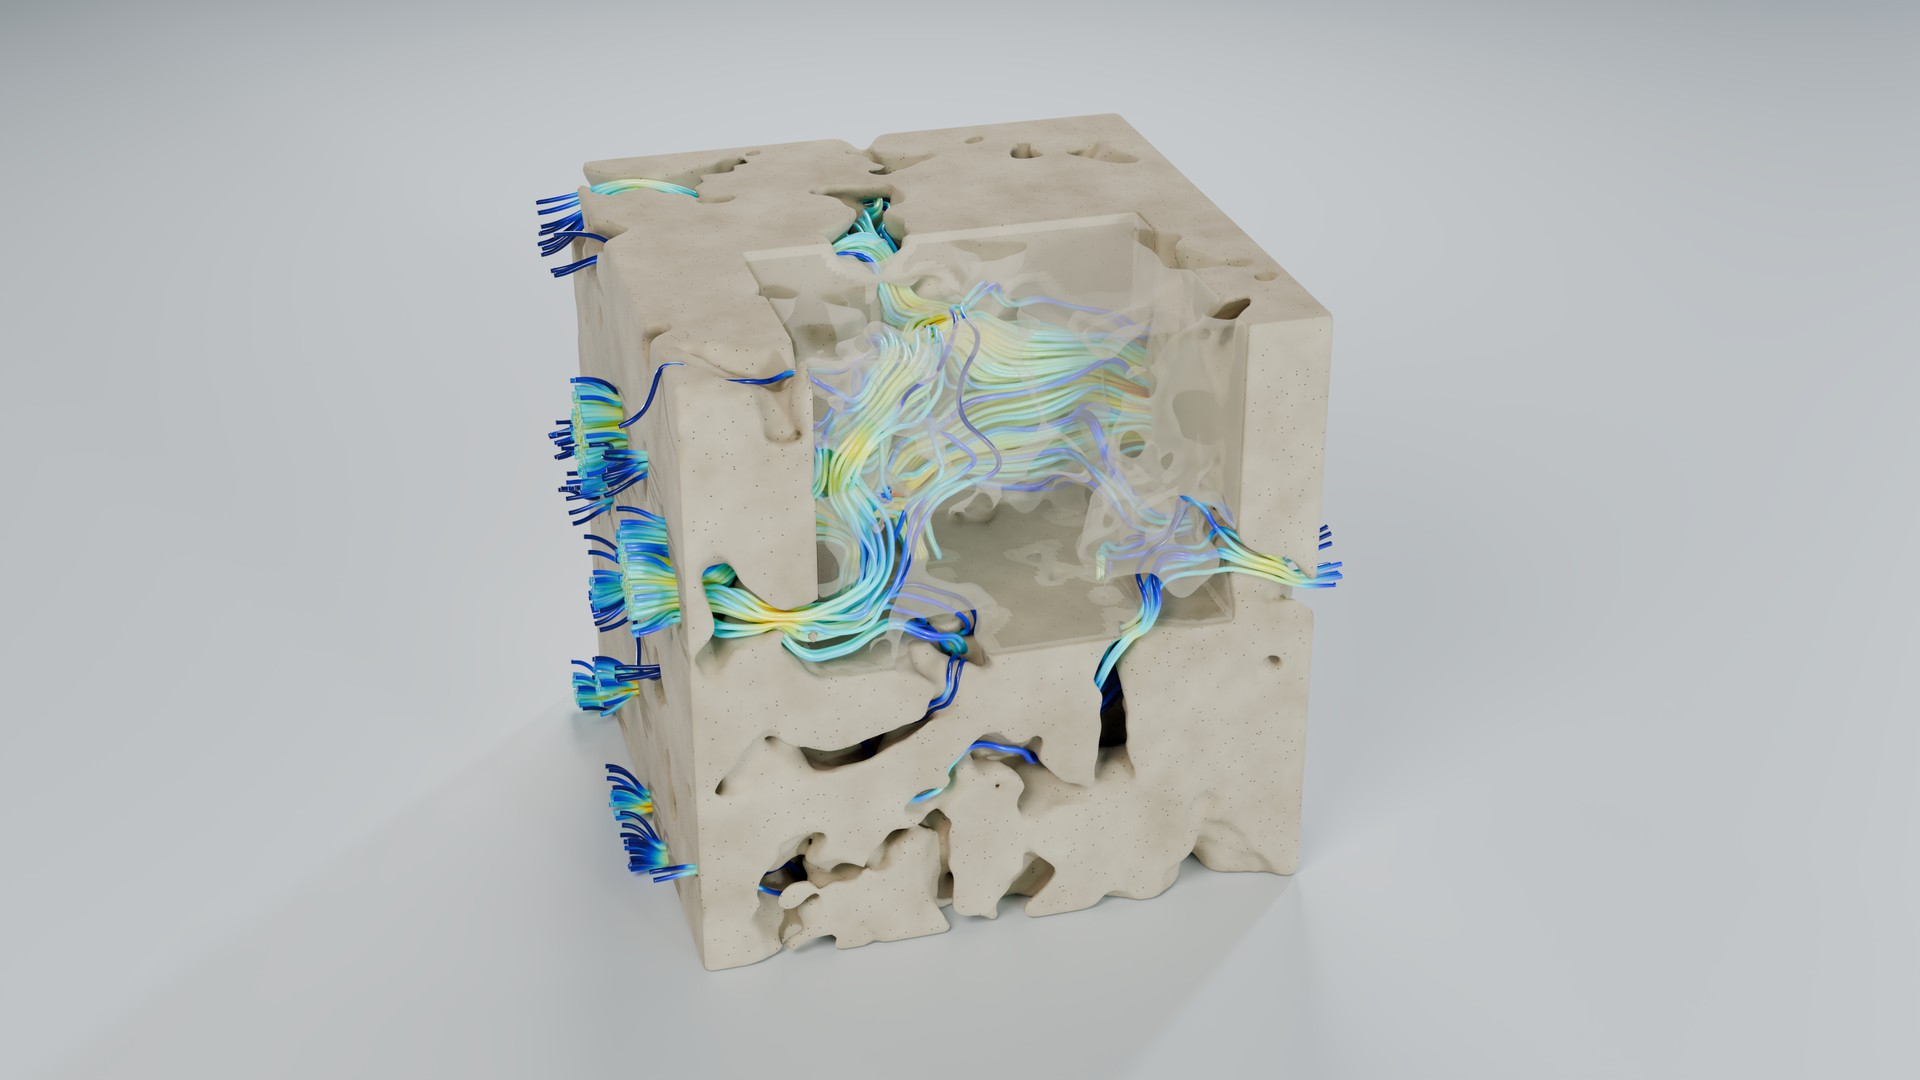
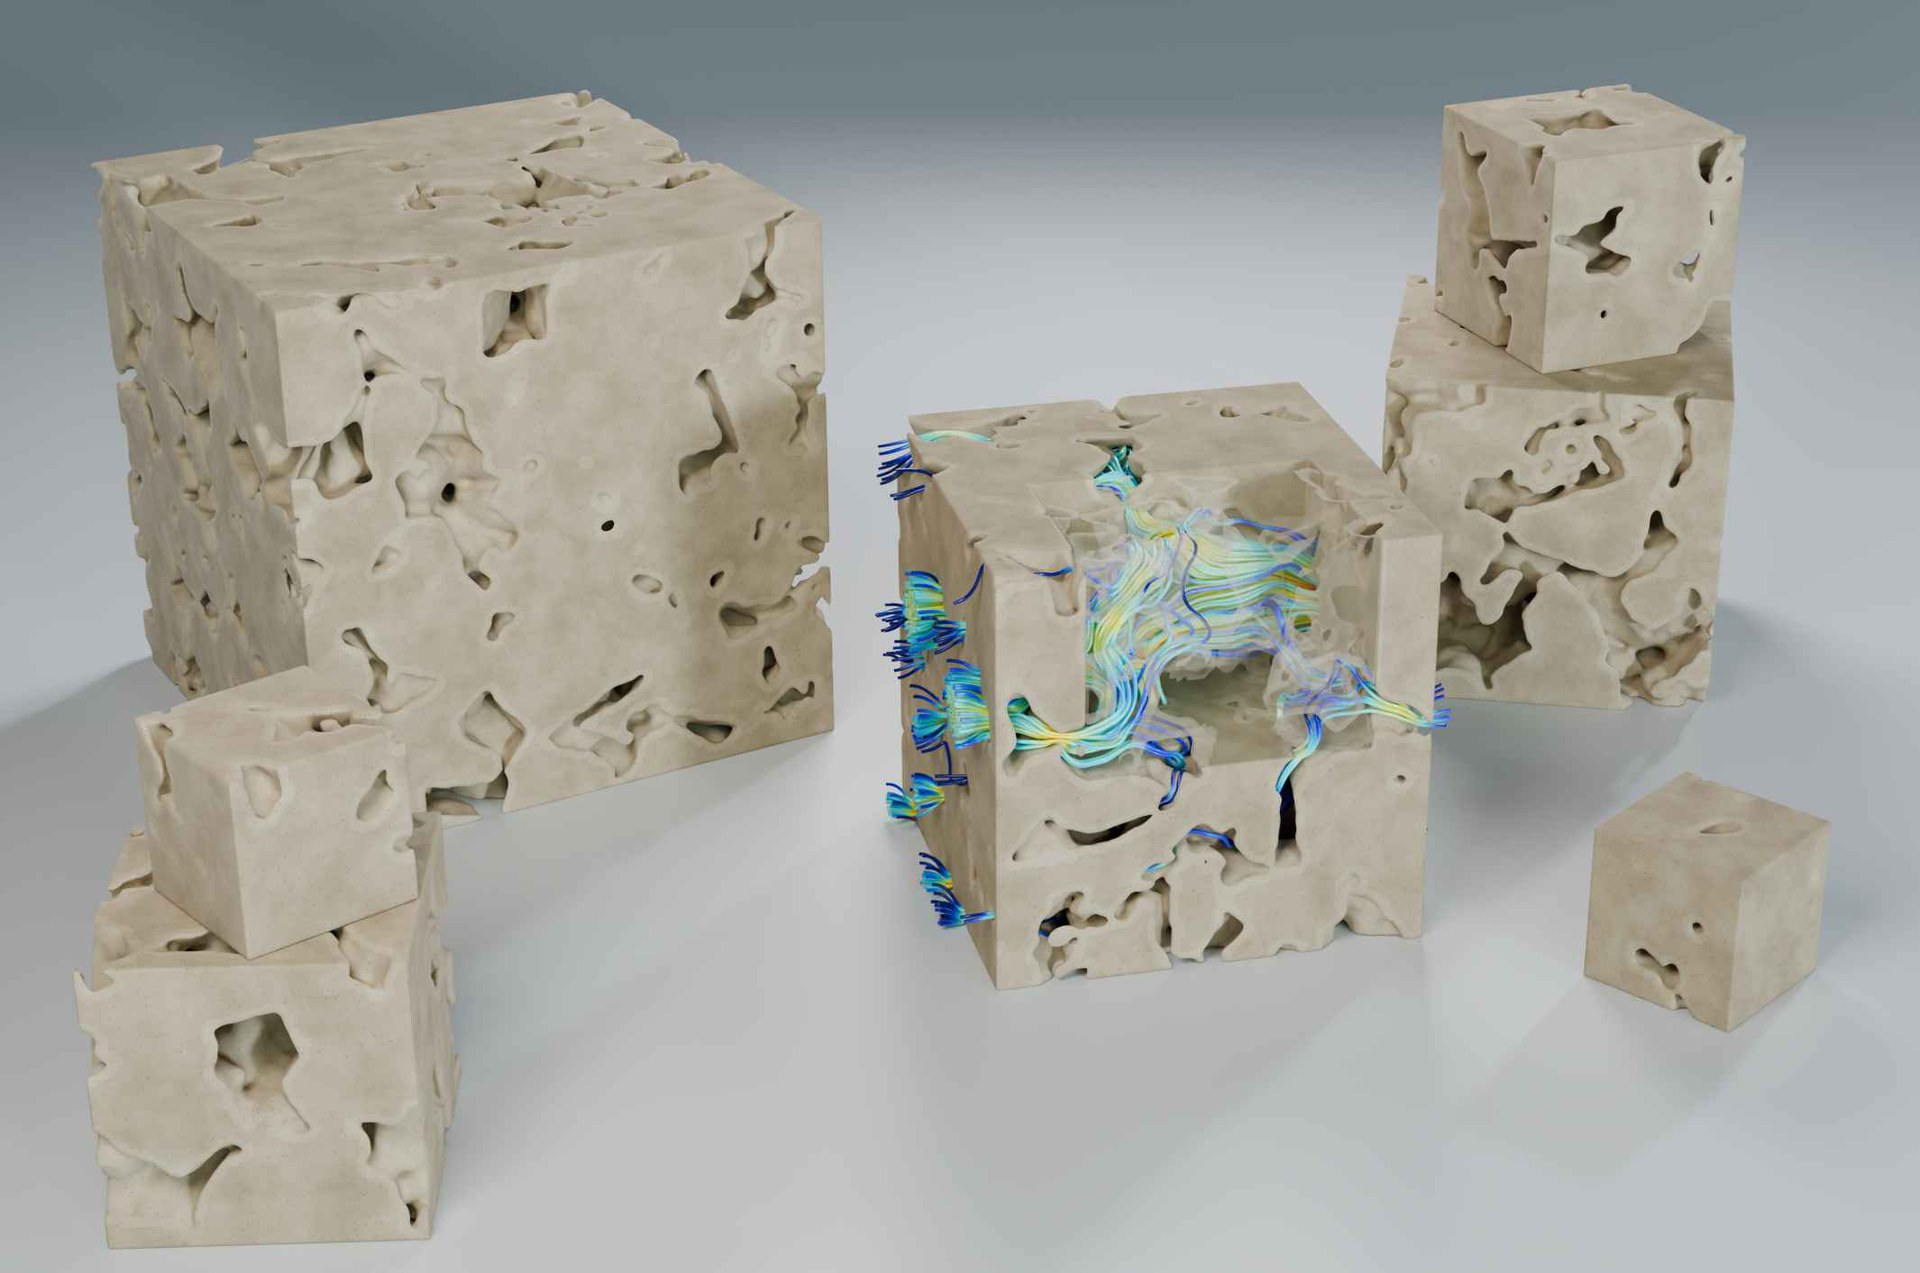
3ª rodada de revisão: textos, linha de reatores compactos, Escola Piloto e figuras
Aplica o TO_DO do Prof. Gabriel G. S. Ferreira de 08/11/2026 (CHANGELOG 0.3.1):

- textos novos na página inicial, em Sobre (com links para PEQ, COPPE e UFRJ) e em
  Pesquisa; saem os textos de abertura de Linhas de pesquisa, Produção científica,
  Repositórios de código aberto, Projetos de pesquisa e Infraestrutura;
- a linha "Reatores não ideais em processos sustentáveis" passa a "Modelagem de reatores
  compactos" (/pesquisa/reatores-compactos/; endereço mudado antes do lançamento);
- Oportunidades: link e logo da Escola Piloto Prof. Giulio Massarani, do PEQ, no lugar
  de "Novas edições serão anunciadas nesta página";
- figuras novas nas linhas de reservatórios e de reatores compactos; a figura de uma
  linha nunca é ampliada além do original.

Verificado localmente: dados, contraste, build sem avisos, peso, marcadores, 1360 links
internos sem quebra e axe sem violações em 32 páginas.

diff --git a/layouts/pesquisa/page.html b/layouts/pesquisa/page.html
@@ -17,9 +17,9 @@
     {{- $fig := . }}
     {{- with resources.Get (printf "img/pesquisas/%s" $fig.arquivo) }}
     {{- $p := .Resize "800x webp q80" }}
-    {{- $g := .Resize "1600x webp q75" }}
+    {{- $g := .Resize (printf "%dx webp q75" (int (math.Min .Width 1600))) }}{{/* nunca amplia */}}
     <figure class="figura figura--linha">
-      <img src="{{ $p.RelPermalink }}" srcset="{{ $p.RelPermalink }} 800w, {{ $g.RelPermalink }} 1600w" sizes="(min-width: 52em) 48rem, 100vw" width="{{ $p.Width }}" height="{{ $p.Height }}" alt="{{ $fig.alt }}" loading="lazy">
+      <img src="{{ $p.RelPermalink }}" srcset="{{ $p.RelPermalink }} 800w, {{ $g.RelPermalink }} {{ $g.Width }}w" sizes="(min-width: 52em) 48rem, 100vw" width="{{ $p.Width }}" height="{{ $p.Height }}" alt="{{ $fig.alt }}" loading="lazy">
       <figcaption>{{ $fig.legenda }}</figcaption>
     </figure>
     {{- else }}{{ errorf "Figura de linha inexistente: assets/img/pesquisas/%s" $fig.arquivo }}

diff --git a/layouts/_shortcodes/escola-piloto.html b/layouts/_shortcodes/escola-piloto.html
@@ -1,0 +1,13 @@
+{{- /* Logo da Escola Piloto Prof. Giulio Massarani (PEQ/COPPE/UFRJ), com link para o site
+     dela (revisão de 08/11/2026: Oportunidades › Cursos e extensão). Arquivo em
+     assets/img/marcas/escola-piloto.jpg, do site da Escola Piloto, sem metadados. */ -}}
+{{- with resources.Get "img/marcas/escola-piloto.jpg" -}}
+{{- $p := .Resize "280x webp q85" -}}
+{{- $g := .Resize "560x webp q80" -}}
+<p class="logo-parceiro">
+  <a href="https://escolapiloto.peq.coppe.ufrj.br/index.php/pt/">
+    <img src="{{ $p.RelPermalink }}" srcset="{{ $p.RelPermalink }} 1x, {{ $g.RelPermalink }} 2x" width="{{ $p.Width }}" height="{{ $p.Height }}" alt="Escola Piloto Prof. Giulio Massarani – site">
+  </a>
+</p>
+{{- else -}}{{ errorf "Logo inexistente: assets/img/marcas/escola-piloto.jpg" }}
+{{- end -}}

diff --git a/layouts/infraestrutura.html b/layouts/infraestrutura.html
@@ -6,7 +6,7 @@
 {{- $itens := where (sort hugo.Data.equipamentos "ordem") "status" "ativo" }}
 <div class="secao">
   <div class="container">
-    <div class="prosa container--estreito">{{ .Content }}</div>
+    {{- with .Content }}<div class="prosa container--estreito">{{ . }}</div>{{ end }}
     {{- range slice (dict "categoria" "computacional" "ancora" "computacao" "titulo" "Computação de alto desempenho") (dict "categoria" "espaco" "ancora" "espaco-fisico" "titulo" "Espaço físico") }}
     {{- $s := . }}
     {{- with where $itens "categoria" $s.categoria }}

diff --git a/layouts/pesquisa/repositorios.html b/layouts/pesquisa/repositorios.html
@@ -9,7 +9,7 @@
 {{- $plataformas := dict "github" (dict "nome" "GitHub" "url" "https://github.com/") "gitlab" (dict "nome" "GitLab" "url" "https://gitlab.com/") }}
 <div class="secao">
   <div class="container">
-    <div class="prosa container--estreito">{{ .Content }}</div>
+    {{- with .Content }}<div class="prosa container--estreito">{{ . }}</div>{{ end }}
     <h2 class="visualmente-oculto">Repositórios</h2>
     <ul class="grade grade--largo">
       {{- range sort hugo.Data.software "nome" }}

diff --git a/layouts/pesquisa/publicacoes.html b/layouts/pesquisa/publicacoes.html
@@ -15,7 +15,7 @@
 {{- $arquivo := resources.FromString "pesquisa/publicacoes/ltfd.bib" (delimit $bib "\n\n") }}
 <div class="secao">
   <div class="container container--estreito">
-    <div class="prosa">{{ .Content }}</div>
+    {{- with .Content }}<div class="prosa">{{ . }}</div>{{ end }}
     <p><a class="link-seta" href="{{ $arquivo.RelPermalink }}" download>Baixar a lista em BibTeX ({{ len $pubs }} artigos)</a></p>
     <nav class="ir-para" aria-label="Anos">
       <span>{{ T "irPara" }}</span>

diff --git a/assets/css/main.css b/assets/css/main.css
@@ -599,3 +599,5 @@ a:hover { color: var(--cor-link-hover); text-decoration-thickness: 2px; }
 .figura--linha { margin-top: var(--space-6); }
 .figura figcaption { font-size: var(--fs-pequeno); color: var(--cor-texto-suave); margin-top: var(--space-2); }
 .grade--largo { --card-min: 22rem; }
+.logo-parceiro a { display: inline-block; }
+.logo-parceiro img { display: block; width: 280px; max-width: 100%; height: auto; }

diff --git a/layouts/pesquisa/projetos.html b/layouts/pesquisa/projetos.html
@@ -13,7 +13,7 @@
 {{- $decadas = $decadas | uniq | sort | collections.Reverse }}
 <div class="secao">
   <div class="container container--estreito">
-    <div class="prosa">{{ .Content }}</div>
+    {{- with .Content }}<div class="prosa">{{ . }}</div>{{ end }}
     <nav class="ir-para" aria-label="Seções">
       <span>{{ T "irPara" }}</span>
       <ul class="chips">

diff --git a/layouts/pesquisa/linhas.html b/layouts/pesquisa/linhas.html
@@ -5,7 +5,7 @@
 {{- partial "cabecalho-pagina.html" . }}
 <div class="secao">
   <div class="container">
-    <div class="prosa">{{ .Content }}</div>
+    {{- with .Content }}<div class="prosa">{{ . }}</div>{{ end }}
     <h2 class="visualmente-oculto">{{ T "linhasDePesquisa" }}</h2>
     <ul class="grade">
       {{- range sort hugo.Data.linhas "ordem" }}

diff --git a/PENDENCIAS.md b/PENDENCIAS.md
@@ -41,7 +41,7 @@ indicação. Ao resolver um item, marque-o, atualize o YAML correspondente (com 
       Bioquímicos (Escola de Química/UFRJ), não no PEQ, com orientação de Secchi desde 2019
       (Lattes de Secchi). Confirmar a linha "Reologia de fluidos complexos".
 - [ ] **Glauter Henrique Sotero Martins:** título e ano de início do Projeto Final. Linha
-      "Reatores não ideais" atribuída pela IC concluída em 2025 (reatores tubulares para
+      "Modelagem de reatores compactos" atribuída pela IC concluída em 2025 (reatores tubulares para
       hidrogênio).
 - [ ] **Leonardo de Souza Sá:** confirmar se o Prof. Gabriel é orientador ou coorientador do
       doutorado. Hoje o site mostra "Orientação: Paulo L. C. Lage e Gabriel G. S. Ferreira";
@@ -59,9 +59,9 @@ indicação. Ao resolver um item, marque-o, atualize o YAML correspondente (com 
   | Reologia de fluidos complexos | Lage, Secchi, Ferreira |
   | Processos de separação e balanço populacional | Lage, Ferreira |
   | CFD aplicada à garantia de escoamento | Lage, Ferreira. Secchi tem trabalhos sobre formação de hidratos em linhas de produção (ex.: Guedes et al., CHERD, 2026): entra? |
-  | Reatores não ideais em processos sustentáveis | Lage, Secchi, Ferreira |
+  | Modelagem de reatores compactos | Lage, Secchi, Ferreira |
 
-- [ ] Imagens das linhas: "Reatores não ideais" tem a figura dos reatores compactos e
+- [ ] Imagens das linhas: "Modelagem de reatores compactos" tem a figura dos reatores compactos e
       "Escoamento reativo em reservatórios", a do arenito Berea (`assets/img/pesquisas/`).
       Falta a legenda técnica delas (caso, modelo, solver; PLANO §6.4) e o crédito, se houver. Para as outras linhas, a apresentação tem figuras de
       resultados: usar só as do LTFD que não estão sob direitos de editora, com legenda e fonte.

diff --git a/content/pt/sobre.md b/content/pt/sobre.md
@@ -13,14 +13,14 @@ Complexos" (P. L. C. Lage, 2016–atual), parafraseado; briefing de identidade v
 Lattes de G. G. S. Ferreira (cursos). Rascunho A, §8.2. Missão, visão e valores ficam
 de fora até haver uma versão específica do LTFD (PLANO §6.2 e §15, item 19). -->
 
-O Laboratório de Termofluidodinâmica (LTFD) faz parte do Programa de Engenharia Química
-(PEQ) do Instituto Alberto Luiz Coimbra de Pós-Graduação e Pesquisa de Engenharia (COPPE)
-da Universidade Federal do Rio de Janeiro (UFRJ).
+O Laboratório de Termofluidodinâmica (LTFD) faz parte do
+[Programa de Engenharia Química (PEQ)](https://www.peq.coppe.ufrj.br/) do
+[Instituto Alberto Luiz Coimbra de Pós-Graduação e Pesquisa de Engenharia (COPPE)](https://coppe.ufrj.br/)
+da [Universidade Federal do Rio de Janeiro (UFRJ)](https://ufrj.br/).
 
 A termofluidodinâmica estuda processos que envolvem escoamentos de fluidos com transporte
-de calor e massa, na área de Fenômenos de Transporte, onde atuam profissionais da
-Engenharia Química e também da Engenharia Mecânica, da Engenharia de Petróleo e de
-outras áreas afins. Com o crescimento da capacidade computacional,
+de calor e massa, na área de Fenômenos de Transporte, em que atuam profissionais das
+Engenharias Química, Mecânica, Civil, e outras áreas afins. Com o crescimento da capacidade computacional,
 a melhoria dos métodos numéricos e a disponibilidade de códigos abertos, a área tem se
 voltado à análise de processos químicos com escoamentos complexos — com mais de uma fase,
 com fluidos de reologia complexa ou com misturas de muitos componentes — usando a

diff --git a/content/pt/pesquisa/linhas.md b/content/pt/pesquisa/linhas.md
@@ -2,11 +2,11 @@
 title: Linhas de pesquisa
 layout: linhas
 weight: 5
-lead: As cinco linhas de pesquisa do LTFD e os métodos e ferramentas que elas compartilham.
+lead: As linhas de pesquisa do LTFD e os métodos e ferramentas que elas compartilham.
 description: >-
   Linhas de pesquisa do LTFD: escoamento reativo em reservatórios de petróleo, reologia de
   fluidos complexos, processos de separação e balanço populacional, CFD aplicada à
-  garantia de escoamento e reatores não ideais em processos sustentáveis.
+  garantia de escoamento e modelagem de reatores compactos.
 # Linhas e ferramentas: apresentação institucional do LTFD (30/05/2025), seções
 # "Ongoing Research" e "Infrastructure"; revisão de 08/11/2026 (siglas e links).
 # Versões do OpenFOAM em uso: OpenFOAM 7 (Fundação) e v2212 (OpenCFD), pelos README dos
@@ -37,9 +37,3 @@ metodos:
   - Balanço populacional e métodos de quadratura
   - Computação de alto desempenho
 ---
-
-Estudamos escoamentos com transferência de calor e massa em equipamentos de processo e
-em meios porosos, combinando modelagem teórica, simulação computacional e experimentos.
-A pesquisa está organizada em cinco linhas, que compartilham métodos e ferramentas:
-códigos próprios e códigos abertos como OpenFOAM®, foam-extend, OpenPNM e Reaktoro.
-Cada linha tem docentes responsáveis e a equipe que trabalha nela.

diff --git a/CHANGELOG.md b/CHANGELOG.md
@@ -3,6 +3,20 @@
 Registro de mudanças de tema, menus, dados e domínio (PLANO §11.5). Conteúdo do dia a dia
 não entra aqui: ele fica no histórico do Git.
 
+## 0.3.1 — 08/11/2026 — 3ª rodada de revisão (`TO_DO`)
+
+- Textos novos: frase da página inicial, abertura de Pesquisa e áreas em Sobre (Engenharias
+  Química, Mecânica, Civil e afins); Sobre com links para os sites do PEQ, da COPPE e da UFRJ.
+- Saem os textos de abertura de Linhas de pesquisa, Produção científica, Repositórios de
+  código aberto, Projetos de pesquisa e Infraestrutura.
+- A linha "Reatores não ideais em processos sustentáveis" passa a se chamar "Modelagem de
+  reatores compactos", com novo endereço (`/pesquisa/reatores-compactos/`; antes do
+  lançamento).
+- Oportunidades › Cursos e extensão: em vez de "Novas edições serão anunciadas nesta página",
+  link e logo da Escola Piloto Prof. Giulio Massarani, do PEQ (shortcode `escola-piloto`).
+- Figuras novas nas linhas de reservatórios (blocos de arenito Berea) e de reatores compactos
+  (reatores e estruturas internas); a figura da linha nunca é ampliada além do original.
+
 ## 0.3.0 — 08/11/2026 — 2ª revisão do Prof. Gabriel G. S. Ferreira (anotações e `TO_DO`)
 
 - **Linhas de pesquisa**: de 7 para 5 — escoamento reativo em reservatórios de petróleo (a
